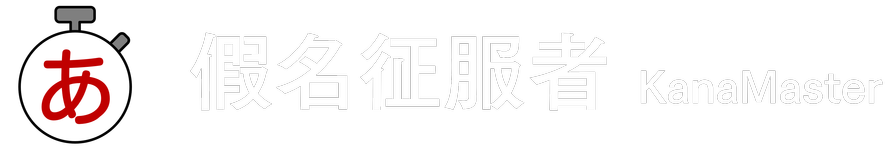
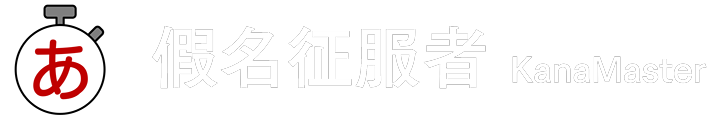
Title image optimization.

diff --git a/PROJECT/style.css b/PROJECT/style.css
@@ -5,7 +5,7 @@
 /* Area Specific */
 	/* Header */
 	#Ctrl_Title {
-		width: 236px;
+		width: 240px;
 	}
 	#Ctrl_Nav {
 		width: 600px;
